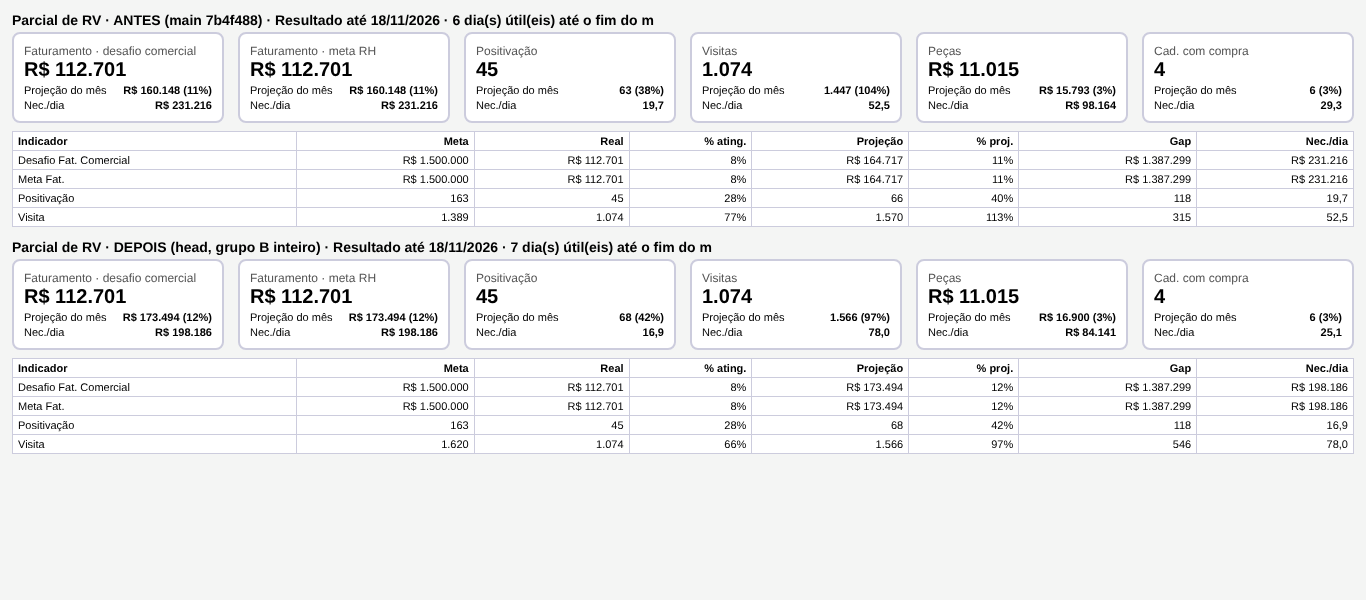
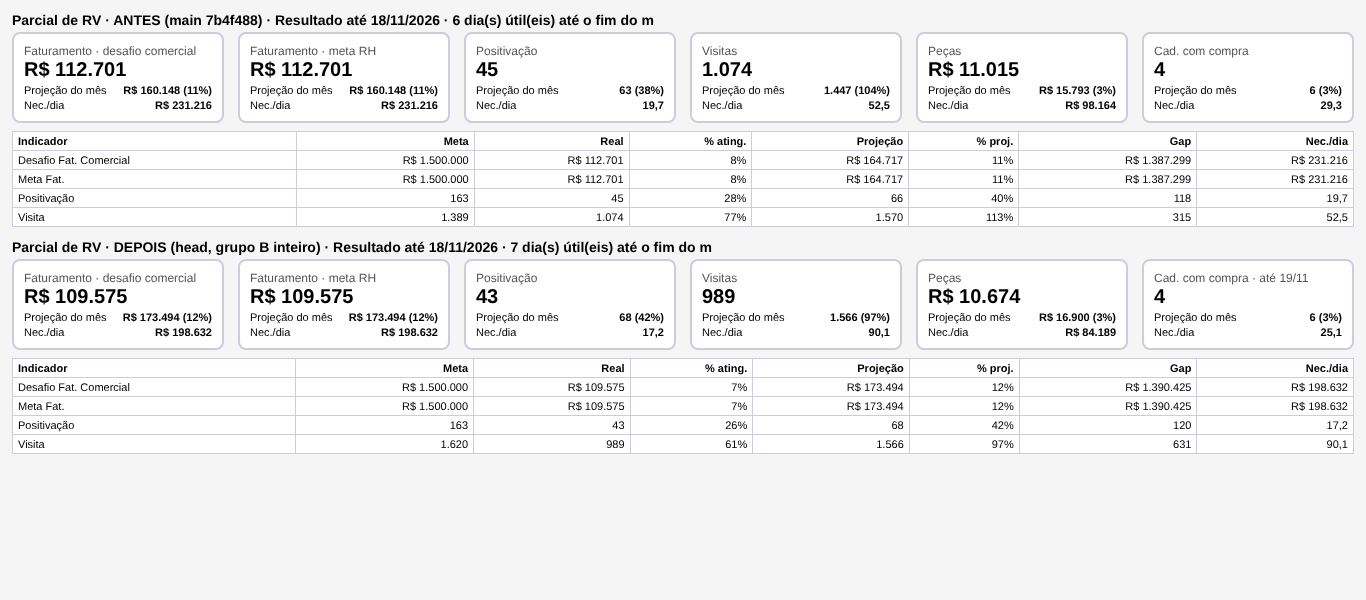
T-0060: simulação da parcial de RV com o real até ontem
Agente: gerente-projetos
Claude-Session: https://claude.ai/code/session_0157qAhmEJtCQQQin3ri1CeL

diff --git a/docs/simulacoes/T-0060/LEIAME.md b/docs/simulacoes/T-0060/LEIAME.md
@@ -94,3 +94,20 @@ Parcial do gerente (BAP inteira), base congelada, hoje = 19/11. Antes = main 7b4
 - Visitas (Diretor): 990 → 989; projeção 1.568 → 1.566; média/DU 82,5 → 82,4. O Diretor passa a usar a mesma conta do Farol de Visita (`visitas_de_hoje`, cadastro conta como visita, só vendedores ativos): real do Farol até 19/11 = 1.074, menos as 85 visitas de hoje = 989, igual ao Diretor. Projeção = 989 ÷ 12 DU × 19.
 - Parcial de RV, gerente: projeção de visita 1.566 (igual ao Diretor), Nec./dia 78,0 (546 ÷ 7 DU do B); projeções de faturamento R$ 173.494, positivação 68 e peças R$ 16.900 como na seção "Parcial de RV (grupo B)".
 - Parcial de RV, supervisor (1º supervisor da base): projeção de visita 689 (105%) → 635 (97%). Regra: o filtro de supervisor e vendedor comparava o código Máxima com códigos Protheus e as visitas de hoje davam 0; agora `cod_protheus`, e a projeção parte das visitas até ontem (RN-GER-007).
+
+## Parcial de RV: o real exibido é o real até ontem (RN-GER-007, grupo B)
+Todo número da parcial é do mesmo período da projeção: até 18/11 (ontem). Parcial do gerente, hoje = 19/11. Antes = main 7b4f488; depois = head. `parcial_rv_1366.png` e `parcial_rv_390.png` regenerados.
+
+| Real exibido | Antes (main) | Depois | Período | Valor × regra |
+|---|---|---|---|---|
+| Faturamento (desafio e meta RH; cartão e tabela) | R$ 112.701 | R$ 109.575 | até 18/11 | real − faturado de hoje (R$ 3.126); é a base da projeção R$ 173.494 (÷ 12 × 19) |
+| Positivação | 45 | 43 | até 18/11 | positivados até ontem; projeção 68 |
+| Visitas | 1.074 | 989 | até 18/11 | 1.074 − 85 de hoje (`visitas_de_hoje`); igual ao Diretor; projeção 1.566 |
+| Peças | R$ 11.015 | R$ 10.674 | até 18/11 | peças até ontem; projeção R$ 16.900 |
+| Cad. com compra | 4 | 4 | até 19/11 (rótulo no cartão) | cadastros não separam hoje (`SEM_SEPARAR_HOJE`, lote 2); o cartão diz "· até 19/11" |
+| Gap / Nec./dia do faturamento | R$ 1.387.299 / R$ 231.216 | R$ 1.390.425 / R$ 198.632 | até 18/11 | gap = desafio − real até ontem; ÷ 7 DU (B) |
+| Gap / Nec./dia da positivação | 118 / 19,7 | 120 / 17,2 | até 18/11 | ÷ 7 DU |
+| Gap / Nec./dia da visita | 546 / 52,5 | 631 / 90,1 | até 18/11 | 1.620 − 989; ÷ 7 DU |
+| Nec./dia das peças | R$ 98.164 | R$ 84.189 | até 18/11 | ÷ 7 DU |
+
+Fora desta rodada: as tabelas do PDF de detalhe da parcial (coluna REAL por vendedor, supervisor, UF...) ainda somam o dia de hoje; precisam do real por linha até ontem (lote 2).
